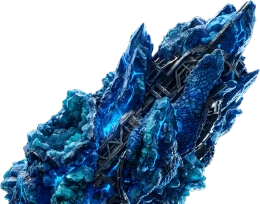
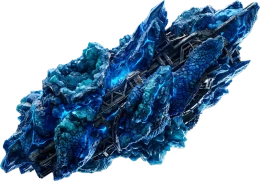
Blue stone: the whole render, everywhere it shows
The shipping stone-blue.webp was cropped at the image edge, so the
lower half of the stone was missing on the landing page, the Expo page
and the CultureVerse hub. It is now the trimmed 2000px master at 1000px,
with the three placements carrying its real dimensions and a rotation
tuned to match the previous orientation.

Claude-Session: https://claude.ai/code/session_014P3hkPNskoG6K6un3iDNYN

diff --git a/lib/hero.ts b/lib/hero.ts
@@ -34,7 +34,7 @@ export const SHARDS_D: Shard[] = [
   { id: 'exchnge', src: '/assets/obj-satellite.webp', iw: 900, ih: 530, x: 300, y: 440, w: 112, rot: -8, dp: 10, fx: -640, fy: 120, fr: 20, d: 260, glow: '#3971FF', href: EVENT_HREF.exchnge, day: 'Thu Oct 22', name: 'The Culture EXCHNGE', venue: 'RETREAT by The Gathering Spot', status: 'Request to attend', lx: -40, ly: 74 },
   { id: 'reunion', src: WORLDS.reunion.shard, iw: WORLDS.reunion.shardW, ih: WORLDS.reunion.shardH, x: 850, y: -38, w: 124, rot: 16, dp: 12, fx: 420, fy: -320, fr: 50, d: 90, glow: WORLDS.reunion.glow, href: WORLDS.reunion.route, day: 'Coming 2027', name: WORLDS.reunion.name, venue: '', status: 'Coming soon', lx: -220, ly: 120 },
   { id: 'live', src: '/assets/stone-obsidian.webp', iw: 896, ih: 900, x: 1062, y: 112, w: 202, rot: 12, dp: 16, fx: 560, fy: -280, fr: 70, d: 200, glow: '#FF6F00', href: EVENT_HREF.live, day: 'Sat Oct 24 and Sun Oct 25', name: 'CultureLive™', venue: 'StarJourney Stage, Central Park Atlanta', status: 'Ticketed', lx: -40, ly: 250 },
-  { id: 'expo', src: '/assets/stone-blue.webp', iw: 900, ih: 705, x: 1208, y: 258, w: 154, rot: -10, dp: 12, fx: 600, fy: 60, fr: -45, d: 320, glow: '#3971FF', href: EVENT_HREF.expo, day: 'Fri Oct 23 to Sun Oct 25', name: 'CultureExpo™', venue: 'Central Park Atlanta', status: EXPO_STATUS, lx: -250, ly: 70 },
+  { id: 'expo', src: '/assets/stone-blue.webp', iw: 1000, ih: 696, x: 1196, y: 262, w: 176, rot: -6, dp: 12, fx: 600, fy: 60, fr: -45, d: 320, glow: '#3971FF', href: EVENT_HREF.expo, day: 'Fri Oct 23 to Sun Oct 25', name: 'CultureExpo™', venue: 'Central Park Atlanta', status: EXPO_STATUS, lx: -250, ly: 70 },
   { id: 'give', src: '/assets/stone-green.webp', iw: 900, ih: 668, x: 1296, y: 80, w: 152, rot: 16, dp: 8, fx: 520, fy: -300, fr: 40, d: 380, glow: '#D7F26A', href: EVENT_HREF.give, day: 'Sat Oct 24', name: "The Culture's BIG GIVE™", venue: 'Sites to be announced', status: 'Free, community', lx: -230, ly: 180 },
 ];
 
@@ -63,7 +63,7 @@ export type ShardM = {
 export const SHARDS_M: ShardM[] = [
   { id: 'honors', src: '/assets/stone-ice.webp', iw: 625, ih: 900, x: -20, y: 112, w: 92, rot: -14, fx: -300, fy: -200, fr: -60, d: 150, glow: '#17A2BE', href: EVENT_HREF.honors, day: 'Wed Oct 21, Flourish', name: 'ICON HONORS', status: 'Private, by invitation' },
   { id: 'live', src: '/assets/stone-obsidian.webp', iw: 896, ih: 900, right: -20, y: 104, w: 104, rot: 12, fx: 300, fy: -200, fr: 70, d: 200, glow: '#FF6F00', href: EVENT_HREF.live, day: 'Sat Oct 24 and Sun Oct 25', name: 'CultureLive™', status: 'Ticketed' },
-  { id: 'expo', src: '/assets/stone-blue.webp', iw: 900, ih: 705, x: -28, y: 332, w: 104, rot: -10, fx: -300, fy: 60, fr: -45, d: 320, glow: '#3971FF', href: EVENT_HREF.expo, day: 'Fri Oct 23 to Sun Oct 25', name: 'CultureExpo™', status: EXPO_STATUS },
+  { id: 'expo', src: '/assets/stone-blue.webp', iw: 1000, ih: 696, x: -28, y: 336, w: 116, rot: -6, fx: -300, fy: 60, fr: -45, d: 320, glow: '#3971FF', href: EVENT_HREF.expo, day: 'Fri Oct 23 to Sun Oct 25', name: 'CultureExpo™', status: EXPO_STATUS },
   { id: 'give', src: '/assets/stone-green.webp', iw: 900, ih: 668, right: -8, y: 336, w: 98, rot: 16, fx: 300, fy: 60, fr: 40, d: 380, glow: '#D7F26A', href: EVENT_HREF.give, day: 'Sat Oct 24', name: "The Culture's BIG GIVE™", status: 'Free, community' },
 ];
 

diff --git a/app/cultureverse/page.tsx b/app/cultureverse/page.tsx
@@ -19,7 +19,7 @@ type Live = { name: string; mark: string; mw: number; mh: number; mhM: number; s
 const LIVE: Live[] = [
   { name: "The Culture's Coldest™ ICON HONORS", mark: '/assets/logo-iconhonors.png', mw: 2000, mh: 355, mhM: 30, shard: '/assets/stone-ice.webp', sw: 625, sh: 900, glow: '#17A2BE', when: 'Wed Oct 21', status: 'Where the culture honors our stars', statusM: 'By invitation', href: EVENT_HREF.honors, rot: -6 },
   { name: 'The Culture EXCHNGE', mark: '/assets/logo-exchnge.png', mw: 1000, mh: 271, mhM: 40, shard: '/assets/obj-satellite.webp', sw: 900, sh: 530, glow: '#3971FF', when: 'Thu Oct 22', status: 'Request to attend', statusM: 'Request to attend', href: EVENT_HREF.exchnge, rot: 6 },
-  { name: 'CultureExpo™', mark: '/assets/logo-cultureexpo.png', mw: 1000, mh: 535, mhM: 48, shard: '/assets/stone-blue.webp', sw: 900, sh: 705, glow: '#3971FF', when: 'Fri Oct 23 to Sun Oct 25', status: EXPO_STATUS, statusM: EXPO_STATUS, href: EVENT_HREF.expo, rot: 8 },
+  { name: 'CultureExpo™', mark: '/assets/logo-cultureexpo.png', mw: 1000, mh: 535, mhM: 48, shard: '/assets/stone-blue.webp', sw: 1000, sh: 696, glow: '#3971FF', when: 'Fri Oct 23 to Sun Oct 25', status: EXPO_STATUS, statusM: EXPO_STATUS, href: EVENT_HREF.expo, rot: 8 },
   { name: "The Culture's BIG GIVE™", mark: '/assets/logo-biggive.png', mw: 1000, mh: 477, mhM: 48, shard: '/assets/stone-green.webp', sw: 900, sh: 668, glow: '#D7F26A', when: 'Sat Oct 24', status: 'Free, community', statusM: 'Free', href: EVENT_HREF.give, rot: -12 },
   { name: 'CultureLive™', mark: '/assets/logo-culturelive.png', mw: 1000, mh: 502, mhM: 48, shard: '/assets/stone-obsidian.webp', sw: 896, sh: 900, glow: '#FF6F00', when: 'Sat Oct 24 and Sun Oct 25', status: 'Ticketed', statusM: 'Ticketed', href: EVENT_HREF.live, rot: -10 },
 ];

diff --git a/app/cultureexpo/page.tsx b/app/cultureexpo/page.tsx
@@ -41,7 +41,7 @@ export default function CultureExpoPage() {
         {/* The dark blue stone, right-aligned exactly as on the coming-world pages: same door box,
             same lit glow, plus a halo so the glow reads against the blue ground. */}
         <div aria-hidden="true" className={`door lit ${s.door}`}>
-          <img className={s.stone} src="/assets/stone-blue.webp" srcSet={srcSet("/assets/stone-blue.webp", STONE_WIDTHS, 900)} sizes="(min-width: 1024px) 460px, 250px" alt="" width={900} height={705} style={{ aspectRatio: '900 / 705' }} loading="lazy" />
+          <img className={s.stone} src="/assets/stone-blue.webp" srcSet={srcSet("/assets/stone-blue.webp", STONE_WIDTHS, 900)} sizes="(min-width: 1024px) 460px, 250px" alt="" width={1000} height={696} style={{ aspectRatio: '1000 / 696' }} loading="lazy" />
         </div>
         <div className={e.top}>
           <div className={`hud ${e.topLine}`}>
@@ -69,7 +69,7 @@ export default function CultureExpoPage() {
       {/* Mobile */}
       <div className={`wrap ${s.wrapM} only-m`}>
         <div aria-hidden="true" className={`door lit ${s.doorM}`}>
-          <img className={s.stoneM} src="/assets/stone-blue.webp" srcSet={srcSet("/assets/stone-blue.webp", STONE_WIDTHS)} sizes="250px" alt="" width={900} height={705} style={{ aspectRatio: '900 / 705' }} />
+          <img className={s.stoneM} src="/assets/stone-blue.webp" srcSet={srcSet("/assets/stone-blue.webp", STONE_WIDTHS)} sizes="250px" alt="" width={1000} height={696} style={{ aspectRatio: '1000 / 696' }} />
         </div>
         <p className={`hud ${e.topM}`}>
           Fri Oct 23 to Sun Oct 25, 2026<br /><span>Central Park Atlanta</span>

diff --git a/app/cultureexpo/cultureexpo.module.css b/app/cultureexpo/cultureexpo.module.css
@@ -19,7 +19,7 @@
   pointer-events: none;
 }
 /* The blue render is a landscape lozenge; turned up on its corner it stands as tall as the other worlds' shards. */
-.stone { position: relative; width: 440px; height: 440px; object-fit: contain; transform: rotate(-38deg); }
+.stone { position: relative; width: 460px; height: 460px; object-fit: contain; transform: rotate(-34deg); }
 .copy { font-size: 19px; line-height: 1.5; max-width: 620px; margin-top: 4px; }
 .wrap { padding-top: 48px; padding-bottom: 120px; min-height: 780px; }
 .soon { font-size: 22px; }
@@ -28,7 +28,7 @@
 @media (max-width: 1023.98px) {
   .shade { background: linear-gradient(rgba(15, 38, 85, 0.2), rgba(15, 38, 85, 0.8)); }
   .doorM { position: relative; margin: 0 auto; width: 260px; height: 250px; display: flex; align-items: center; justify-content: center; }
-  .stoneM { width: 240px; height: 240px; object-fit: contain; transform: rotate(-38deg); }
+  .stoneM { width: 250px; height: 250px; object-fit: contain; transform: rotate(-34deg); }
   .copyM { position: relative; font-size: 16px; line-height: 1.5; margin-top: 14px; }
   .wrapM { padding-top: 40px; padding-bottom: 60px; }
   .hM { position: relative; margin: 26px 0 0; }

diff --git a/brand/README.md b/brand/README.md
@@ -53,8 +53,10 @@ one event or two.
 `brand/objects/` are the four that `/iconhonors` now uses; `public/assets/obj-*.webp` are the
 trimmed 700px working copies made from them.
 
-`brand/stones/` are **not** in use. The shipping `public/assets/stone-*.webp` are untouched.
-Held pending further changes.
+`brand/stones/` are mostly **not** in use; the shipping `public/assets/stone-*.webp` are untouched
+except for blue. The old blue working copy was cropped at the image edge, so the lower half of the
+stone was missing wherever it showed; `stone-blue.webp` is now the trimmed master at 1000px and the
+three placements that use it carry its new 1000 x 696 dimensions and a rotation adjusted to match.
 
 ### Why the stones were not swapped
 
